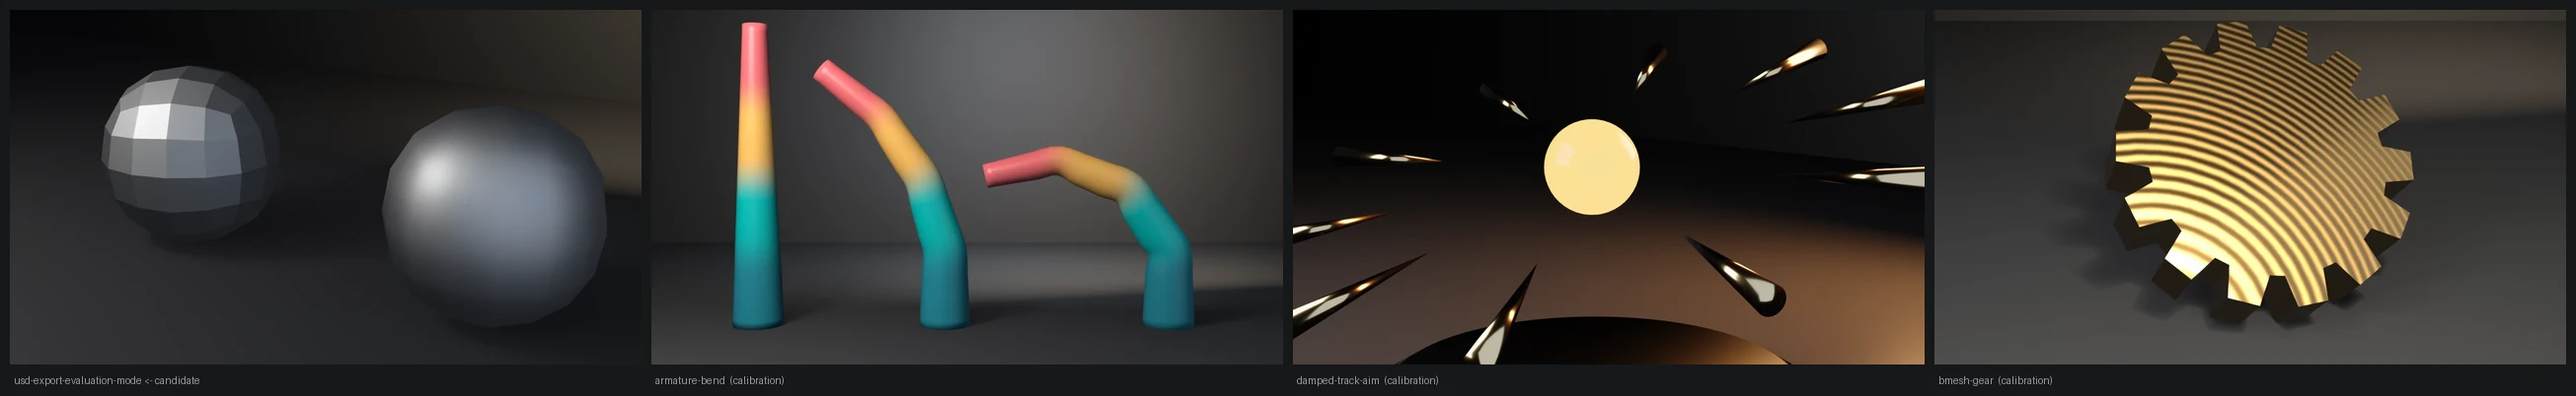
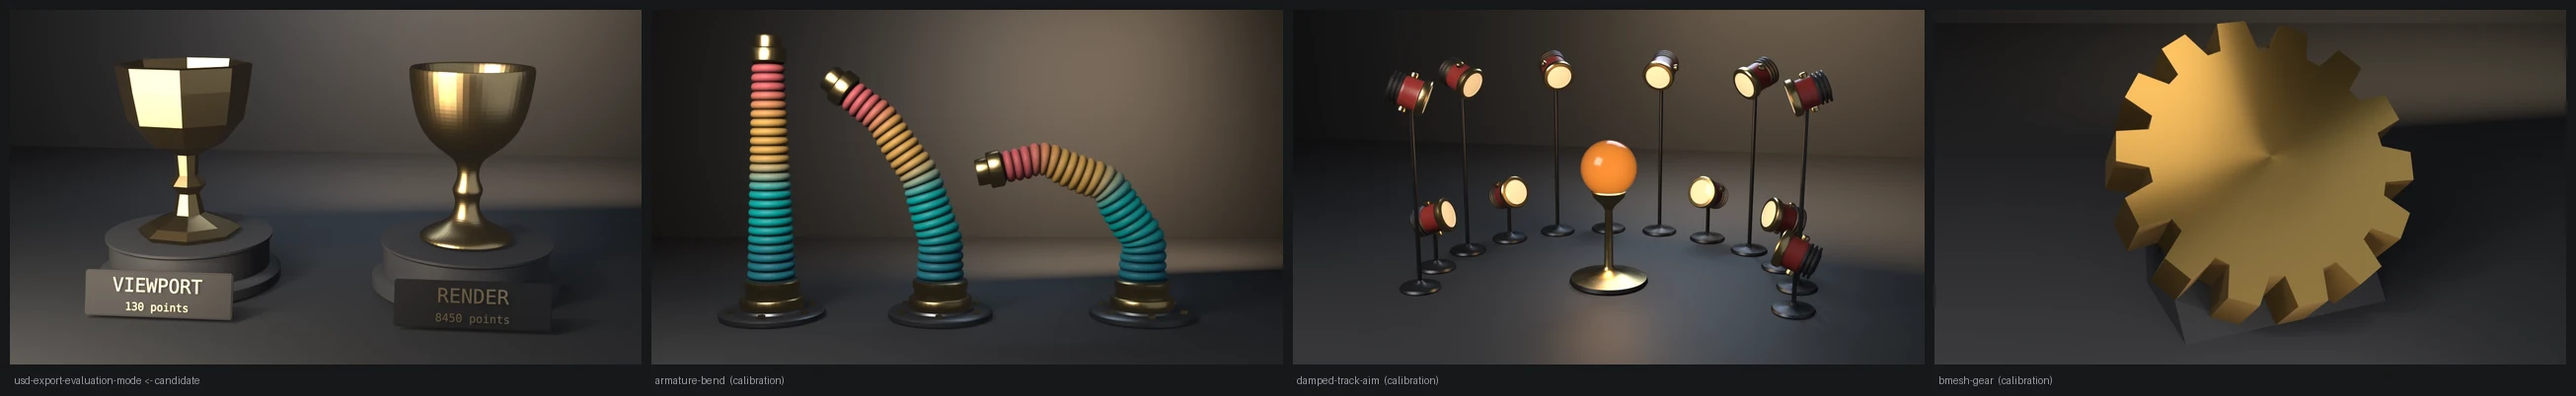
fix(examples): redesign usd-export-evaluation-mode as re-imported brass goblets
The still used to show two steel balls built from the live SUBSURF
modifier, which depicted the two qualities rather than the files. The
--output path now builds a turned goblet on an 8-sided lathe cage (SUBSURF
levels=0, render_levels=3) and exports it twice through the same
wm.usd_export call the check proves (TESSELLATE + VIEWPORT and TESSELLATE +
RENDER). It re-imports both USDA files with wm.usd_import and stages the
imported meshes on turned plinths. Both are flat-shaded with one brass
material, so geometry is the only difference. The placards read VIEWPORT /
RENDER plus the point count measured on each re-imported mesh, set in the
bundled DejaVu Sans Mono (Inter is a variable font whose overlapping
contours render with holes on 4.5). The render path also asserts that the
re-imported RENDER mesh is denser than the VIEWPORT one (exit 6). The
cube check is unchanged.

Evidence (live runs, local):
- E:\Blender-Developer-Tools\.scratch\blender-5.2.1-windows-x64\blender.exe
  (Blender 5.2.1 LTS): check-only exit 0, base=8 usda_vp=26/24
  usda_rd=98/96 usda_cage=8 scheme_cage=catmullClark.
  --evaluation-mode VIEWPORT exits 4 ("RENDER TESSELLATE wrote 26 points /
  24 faces"). --output: goblet usda points viewport=130 render=8450.
- E:\Blender-Developer-Tools\.scratch\blender-4.5.11-windows-x64\blender.exe
  (Blender 4.5.11 LTS): check-only exit 0 with the same numbers; --output
  renders the same still (130 / 8450).
[…]

diff --git a/examples/usd-export-evaluation-mode/usd_export_evaluation_mode.py b/examples/usd-export-evaluation-mode/usd_export_evaluation_mode.py
@@ -18,7 +18,7 @@ check. Pass --output to also render a still:
     blender --background --python usd_export_evaluation_mode.py -- --output u.png
 """
 import bpy, bmesh, sys, os, math, argparse, tempfile
-from mathutils import Vector
+from mathutils import Matrix, Vector
 
 sys.path.insert(0, os.path.join(os.path.dirname(os.path.abspath(__file__)), os.pardir))
 sys.dont_write_bytecode = True
@@ -199,43 +199,214 @@ def principled(name, color, metallic, roughness):
     return mat
 
 
-def render_still(obj, path, engine):
-    """Left: viewport tessellation (levels=1). Right: render tessellation (levels=2)."""
-    scene = bpy.context.scene
-    steel = principled("Steel", (0.55, 0.57, 0.60, 1.0), 1.0, 0.58)
+# Gallery subject: a turned goblet whose coarse lathe cage (GOBLET_SEGS
+# around) carries the same SUBSURF split as the check's cube. The render path
+# exports it twice through the same exporter call the check proves, then
+# re-imports both USDA files — the still shows the files, not the modifier.
+GOBLET_SEGS = 8
+# The goblet widens the gap the check proves on the cube (levels 1 vs 2): an
+# 8-sided cage at viewport level 0 against render level 3, so the difference
+# between the two files reads at thumbnail size.
+GOBLET_VP = 0
+GOBLET_RD = 3
+GOBLET_PROFILE = [            # (r, z) bottom -> rim outside -> rim inside -> well
+    (0.0, 0.0), (0.62, 0.0), (0.66, 0.06), (0.52, 0.14), (0.20, 0.26),
+    (0.14, 0.52), (0.24, 0.64), (0.13, 0.76), (0.15, 1.02), (0.46, 1.16),
+    (0.72, 1.46), (0.80, 1.86), (0.84, 2.14), (0.78, 2.16),
+    (0.72, 1.88), (0.62, 1.52), (0.40, 1.30), (0.0, 1.24),
+]
 
-    left = obj
-    left.location = (-1.55, 0.0, 1.0)
-    left.rotation_euler = (0.0, 0.0, math.radians(28))
-    left.data.materials.append(steel)
-    left.modifiers["Subsurf"].levels = LEVEL_VP
-    for poly in left.data.polygons:
-        poly.use_smooth = False
 
-    right_me = left.data.copy()
-    right = bpy.data.objects.new("IngotRender", right_me)
-    right.location = (1.55, 0.0, 1.0)
-    right.rotation_euler = (0.0, 0.0, math.radians(28))
-    right.data.materials.append(steel)
-    bpy.context.collection.objects.link(right)
-    rm = right.modifiers.new("Subsurf", "SUBSURF")
-    rm.levels = LEVEL_RD
-    rm.render_levels = LEVEL_RD
-    for poly in right.data.polygons:
-        poly.use_smooth = True
-    # Subdivision pulls the surface inside the 2 m cage, so at z = 1.0 both
-    # ingots hovered above the floor. Rest each on z = 0 from its own
-    # evaluated bounds (level 1 and level 2 shrink by different amounts).
-    bpy.context.view_layer.update()
-    dg = bpy.context.evaluated_depsgraph_get()
-    for ob in (left, right):
-        ev = ob.evaluated_get(dg)
-        em = ev.to_mesh()
+def build_goblet():
+    me = bpy.data.meshes.new("Goblet")
+    bm = bmesh.new()
+    try:
+        rings = []
+        for r, z in GOBLET_PROFILE:
+            if r == 0.0:
+                rings.append([bm.verts.new((0.0, 0.0, z))])
+            else:
+                rings.append([bm.verts.new((r * math.cos(2 * math.pi * s / GOBLET_SEGS),
+                                            r * math.sin(2 * math.pi * s / GOBLET_SEGS), z))
+                              for s in range(GOBLET_SEGS)])
+        for a, b in zip(rings, rings[1:]):
+            for s in range(GOBLET_SEGS):
+                t = (s + 1) % GOBLET_SEGS
+                if len(a) == 1:
+                    bm.faces.new((a[0], b[t], b[s]))
+                elif len(b) == 1:
+                    bm.faces.new((a[s], a[t], b[0]))
+                else:
+                    bm.faces.new((a[s], a[t], b[t], b[s]))
+        bmesh.ops.recalc_face_normals(bm, faces=bm.faces)
+        bm.to_mesh(me)
+    finally:
+        bm.free()
+    ob = bpy.data.objects.new("Goblet", me)
+    bpy.context.collection.objects.link(ob)
+    mod = ob.modifiers.new("Subsurf", "SUBSURF")
+    mod.levels = GOBLET_VP
+    mod.render_levels = GOBLET_RD
+    return ob
+
+
+def label_font():
+    """DejaVu Sans Mono ships in datafiles/fonts on 4.5 and 5.2, and its 1 never
+    reads as I. (Inter ships too, but it is a variable font whose overlapping
+    contours render with holes on 4.5.)"""
+    # system_resource resolves directories only; a file path returns ''
+    fonts = bpy.utils.system_resource("DATAFILES", path="fonts")
+    path = os.path.join(fonts, "DejaVuSansMono.woff2") if fonts else ""
+    if path and os.path.exists(path):
         try:
-            zmin = min((ev.matrix_world @ v.co).z for v in em.vertices)
+            return bpy.data.fonts.load(path, check_existing=True)
+        except RuntimeError:
+            pass
+    return None
+
+
+def import_usda(path):
+    before = set(bpy.data.objects)
+    if bpy.ops.wm.usd_import(filepath=path) != {"FINISHED"}:
+        raise RuntimeError(f"usd_import failed for {path}")
+    meshes = [o for o in set(bpy.data.objects) - before if o.type == "MESH"]
+    if len(meshes) != 1:
+        raise RuntimeError(f"expected one mesh from {path}, got {len(meshes)}")
+    ob = meshes[0]
+    # bake whatever Xform chain the importer built into the mesh, so staging
+    # below starts from identity like any other prop
+    mw = ob.matrix_world.copy()
+    ob.parent = None
+    ob.data.transform(mw)
+    ob.matrix_world = Matrix.Identity(4)
+    return ob
+
+
+def text_plate(name, lines, loc, mat_plate, mat_ink, scene):
+    """A bevelled brass plate leaning back on the floor with engraved text."""
+    pme = bpy.data.meshes.new(name)
+    bm = bmesh.new()
+    try:
+        bmesh.ops.create_cube(bm, size=1.0)
+        for v in bm.verts:
+            v.co.x *= 1.7
+            v.co.y *= 0.06
+            v.co.z *= 0.52
+        bmesh.ops.bevel(bm, geom=list(bm.edges), offset=0.015, segments=2,
+                        affect="EDGES", clamp_overlap=True)
+        bm.to_mesh(pme)
+    finally:
+        bm.free()
+    pme.materials.append(mat_plate)
+    plate = bpy.data.objects.new(name, pme)
+    plate.location = loc
+    plate.rotation_euler = (math.radians(-14), 0.0, 0.0)
+    scene.collection.objects.link(plate)
+    objs = [plate]
+    for i, (body, size) in enumerate(lines):
+        cu = bpy.data.curves.new(f"{name}.T{i}", "FONT")
+        cu.body = body
+        cu.size = size
+        cu.align_x = "CENTER"
+        cu.align_y = "CENTER"
+        cu.extrude = 0.004
+        cu.materials.append(mat_ink)
+        font = label_font()
+        if font is not None:
+            cu.font = font
+        t = bpy.data.objects.new(f"{name}.T{i}", cu)
+        t.parent = plate
+        t.location = (0.0, -0.065, 0.10 if i == 0 else -0.14)
+        t.rotation_euler = (math.radians(90), 0.0, 0.0)
+        scene.collection.objects.link(t)
+        objs.append(t)
+    return objs
+
+
+def render_still(obj, path, engine):
+    """Left: the VIEWPORT USDA re-imported. Right: the RENDER USDA re-imported."""
+    bpy.ops.wm.read_factory_settings(use_empty=True)
+    scene = bpy.context.scene
+
+    goblet = build_goblet()
+    out_dir = tempfile.mkdtemp(prefix="bdt_usd_goblet_")
+    p_vp = os.path.join(out_dir, "goblet_viewport.usda")
+    p_rd = os.path.join(out_dir, "goblet_render.usda")
+    export_usda(p_vp, "VIEWPORT", "TESSELLATE")
+    export_usda(p_rd, "RENDER", "TESSELLATE")
+    bpy.data.objects.remove(goblet)
+    left = import_usda(p_vp)
+    right = import_usda(p_rd)
+    n_vp, n_rd = len(left.data.vertices), len(right.data.vertices)
+    print(f"goblet usda points viewport={n_vp} render={n_rd}")
+    if n_rd <= n_vp:
+        print("ERROR: re-imported RENDER goblet is not denser than VIEWPORT", file=sys.stderr)
+        return 6
+
+    pewter = principled("Brass", (0.92, 0.64, 0.30, 1.0), 1.0, 0.30)
+    stone = principled("Plinth", (0.06, 0.062, 0.07, 1.0), 0.0, 0.34)
+    plate_mat = principled("Plate", (0.035, 0.036, 0.04, 1.0), 0.7, 0.42)
+    ink = principled("Inlay", (0.95, 0.70, 0.36, 1.0), 1.0, 0.32)
+
+    # turned plinths: a stepped drum per goblet, the goblet seated on top
+    PLINTH_H = 0.62
+    plinths = []
+    for x in (-1.75, 1.75):
+        me = bpy.data.meshes.new("Plinth")
+        bm = bmesh.new()
+        try:
+            prof = [(0.0, 0.0), (1.12, 0.0), (1.16, 0.04), (1.16, 0.16), (1.10, 0.20),
+                    (1.02, 0.22), (1.02, PLINTH_H - 0.06), (1.06, PLINTH_H - 0.03),
+                    (1.06, PLINTH_H), (0.0, PLINTH_H)]
+            rings = []
+            for r, z in prof:
+                rings.append([bm.verts.new((0.0, 0.0, z))] if r == 0.0 else
+                             [bm.verts.new((r * math.cos(2 * math.pi * s / 64),
+                                            r * math.sin(2 * math.pi * s / 64), z))
+                              for s in range(64)])
+            for a, b in zip(rings, rings[1:]):
+                for s in range(64):
+                    t = (s + 1) % 64
+                    if len(a) == 1:
+                        f = bm.faces.new((a[0], b[t], b[s]))
+                    elif len(b) == 1:
+                        f = bm.faces.new((a[s], a[t], b[0]))
+                    else:
+                        f = bm.faces.new((a[s], a[t], b[t], b[s]))
+                    f.smooth = True
+            bmesh.ops.recalc_face_normals(bm, faces=bm.faces)
+            bm.to_mesh(me)
         finally:
-            ev.to_mesh_clear()
-        ob.location.z -= zmin
+            bm.free()
+        me.set_sharp_from_angle(angle=math.radians(40.0))
+        me.materials.append(stone)
+        pl = bpy.data.objects.new("Plinth", me)
+        pl.location = (x, 0.0, 0.0)
+        scene.collection.objects.link(pl)
+        plinths.append(pl)
+
+    # Both goblets are shaded identically (flat) — the only difference in the
+    # picture is the geometry each USDA file carries.
+    for ob, x in ((left, -1.75), (right, 1.75)):
+        ob.data.materials.clear()
+        ob.data.materials.append(pewter)
+        for poly in ob.data.polygons:
+            poly.use_smooth = False
+        ob.location = (x, 0.0, 0.0)
+        ob.rotation_euler = (0.0, 0.0, math.radians(11.25))
+        ob.scale = (1.0, 1.0, 1.0)
+    # Subdivision pulls the surface inside the cage by a level-dependent
+    # amount, so each goblet is seated on its plinth from its own verts.
+    bpy.context.view_layer.update()
+    for ob in (left, right):
+        zmin = min((ob.matrix_world @ v.co).z for v in ob.data.vertices)
+        ob.location.z += PLINTH_H - zmin
+
+    labels = []
+    labels += text_plate("PlacardVP", [("VIEWPORT", 0.30), (f"{n_vp} points", 0.17)],
+                         (-1.75, -1.45, 0.30), plate_mat, ink, scene)
+    labels += text_plate("PlacardRD", [("RENDER", 0.30), (f"{n_rd} points", 0.17)],
+                         (1.75, -1.45, 0.30), plate_mat, ink, scene)
 
     floor_me = bpy.data.meshes.new("Floor")
     bm = bmesh.new()
@@ -269,18 +440,23 @@ def render_still(obj, path, engine):
         ob.rotation_euler = tuple(math.radians(a) for a in rot)
         scene.collection.objects.link(ob)
 
-    light("Key", (-4.0, -5.0, 6.0), 420.0, 5.0, (1.0, 0.96, 0.9), (46, 0, -35))
-    light("Fill", (5.0, -3.5, 3.0), 180.0, 9.0, (0.75, 0.85, 1.0), (62, 0, 50))
-    light("Wedge", (2.5, 5.5, 4.0), 360.0, 6.0, (1.0, 0.76, 0.5), (-68, 0, 190))
+    light("Key", (-4.0, -5.0, 6.0), 520.0, 3.5, (1.0, 0.95, 0.88), (46, 0, -35))
+    light("Fill", (5.0, -3.5, 3.0), 90.0, 9.0, (0.75, 0.85, 1.0), (62, 0, 50))
+    light("Rim", (0.0, 4.0, 5.5), 260.0, 4.0, (0.62, 0.78, 1.0), (-42, 0, 180))
+    light("Wedge", (2.5, 5.5, 4.0), 520.0, 6.0, (1.0, 0.72, 0.45), (-68, 0, 190))
+    # a broad warm card low and front-left: polished brass mirrors its
+    # surroundings, and on a near-black stage it otherwise reads olive-dark.
+    # The card's reflection is also what draws each facet on the viewport cup.
+    light("Card", (-3.2, -4.2, 2.0), 380.0, 5.0, (1.0, 0.82, 0.6), (72, 0, -38))
 
     aim = bpy.data.objects.new("Aim", None)
-    aim.location = (0.0, 0.0, 0.78)
+    aim.location = (0.0, 0.0, 1.25)
     aim.hide_render = True
     scene.collection.objects.link(aim)
     cam_data = bpy.data.cameras.new("Cam")
     cam_data.lens = 50.0
     cam = bpy.data.objects.new("Cam", cam_data)
-    cam.location = (4.16, -5.85, 3.00)
+    cam.location = (1.05, -10.6, 3.7)
     scene.collection.objects.link(cam)
     scene.camera = cam
     track = cam.constraints.new("TRACK_TO")
@@ -303,7 +479,8 @@ def render_still(obj, path, engine):
     scene.view_settings.view_transform = "Standard"
 
     fcode = gallery_framing.check_framing(
-        scene, cam, hero=[left, right], elements=[left, right], stage=[floor, wall],
+        scene, cam, hero=[left, right] + plinths, elements=[left, right] + plinths + labels,
+        stage=[floor, wall],
     )
     if fcode:
         return fcode

diff --git a/examples/usd-export-evaluation-mode/README.md b/examples/usd-export-evaluation-mode/README.md
@@ -12,10 +12,19 @@ RENDER writes 98 / 96. Default `export_subdivision='BEST_MATCH'` writes the
 silent — both files are the cage. TESSELLATE is what makes the mode
 observable.
 
-The still is numeric-adjacent: left is viewport tessellation (flat-shaded
-L1), right is render tessellation (smoothed L2). The USDA point counts are
-the evidence; the two balls depict the two qualities the exporter chooses
-between.
+The still shows the exported files themselves. The `--output` path builds a
+turned goblet on an 8-sided lathe cage with SUBSURF `levels=0` /
+`render_levels=3`, exports it twice through the same `wm.usd_export` call
+the check proves (TESSELLATE + VIEWPORT, TESSELLATE + RENDER), re-imports
+both USDA files with `wm.usd_import`, and stages the two imported meshes.
+Left is the VIEWPORT file (the raw 8-sided cage, 130 points), right the
+RENDER file (8450 points). Both are flat-shaded with the same material, so
+geometry is the only difference, and the point count on each placard is
+read from the re-imported mesh at render time. The goblet widens the
+cube's L1/L2 split to L0/L3 so the difference reads at thumbnail size. The
+render path also asserts that the re-imported RENDER goblet is denser than
+the VIEWPORT one (exit 6). Placards use the bundled DejaVu Sans Mono, whose
+`1` cannot be misread as `I`.
 
 **What failure each check would catch:**
 
@@ -26,11 +35,9 @@ between.
 - exit 5 — BEST_MATCH stopped writing the cage
 - exit 6 — RENDER and VIEWPORT files are identical
 
-Staging: Catmull-Clark pulls the surface inside the 2 m cage, and level 1
-and level 2 shrink by different amounts, so both balls used to hover about
-0.16 m over the floor at the cage's z = 1.0. The render path now rests each
-one on the floor from its own evaluated vertices (measured zmin 0.000000
-for both), after the check has run.
+Staging: Catmull-Clark pulls the surface inside the cage, and each level
+shrinks it by a different amount, so each re-imported goblet is seated on
+its plinth from its own vertices rather than from the cage's z.
 
 Probed on the CI Linux portables **Blender 5.2.1 LTS** (`9e2066aef7ef`) and
 **Blender 4.5.13 LTS** (`daeeeca98fb0`): `wm.usd_export` exists, `poll()` is
@@ -58,7 +65,7 @@ against it. `10` is the shared framing helper.
 | 3 | VIEWPORT TESSELLATE point/face count off closed form |
 | 4 | RENDER TESSELLATE point/face count or scheme off closed form |
 | 5 | BEST_MATCH cage point count or scheme off |
-| 6 | RENDER and VIEWPORT USDA point counts are identical |
+| 6 | RENDER and VIEWPORT USDA point counts are identical (check), or the re-imported RENDER goblet is not denser than the VIEWPORT one (`--output`) |
 | 10 | Gallery framing violation |
 | 12 | `--output` produced no file |
 

diff --git a/README.md b/README.md
@@ -477,7 +477,7 @@ three. `--assume-distinct-names` is red only on 5.2.
 </tr>
 <tr>
 <td width="46%" valign="middle">
-<a href="examples/usd-export-evaluation-mode/"><img src="examples/usd-export-evaluation-mode/preview.webp" alt="USD export evaluation_mode: two steel SUBSURF cubes resting on a dark studio floor — left faceted viewport tessellation, right smoother render tessellation, warm wedge on the back wall" /></a>
+<a href="examples/usd-export-evaluation-mode/"><img src="examples/usd-export-evaluation-mode/preview.webp" alt="USD export evaluation_mode: two brass goblets on dark plinths, each re-imported from its own USDA file — left an eight-sided 130-point VIEWPORT export, right a smooth 8450-point RENDER export" /></a>
 </td>
 <td valign="middle">
 
